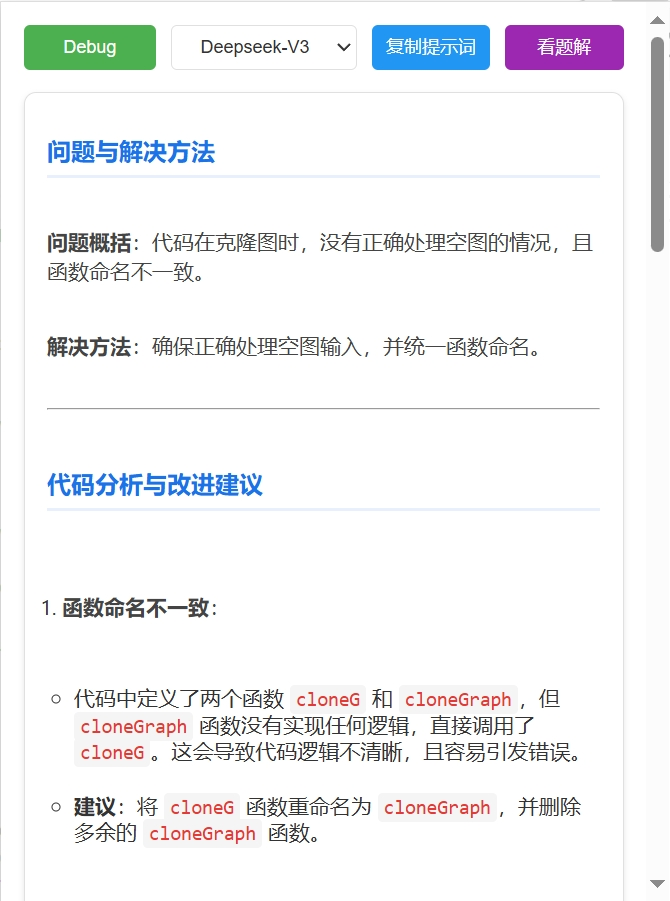
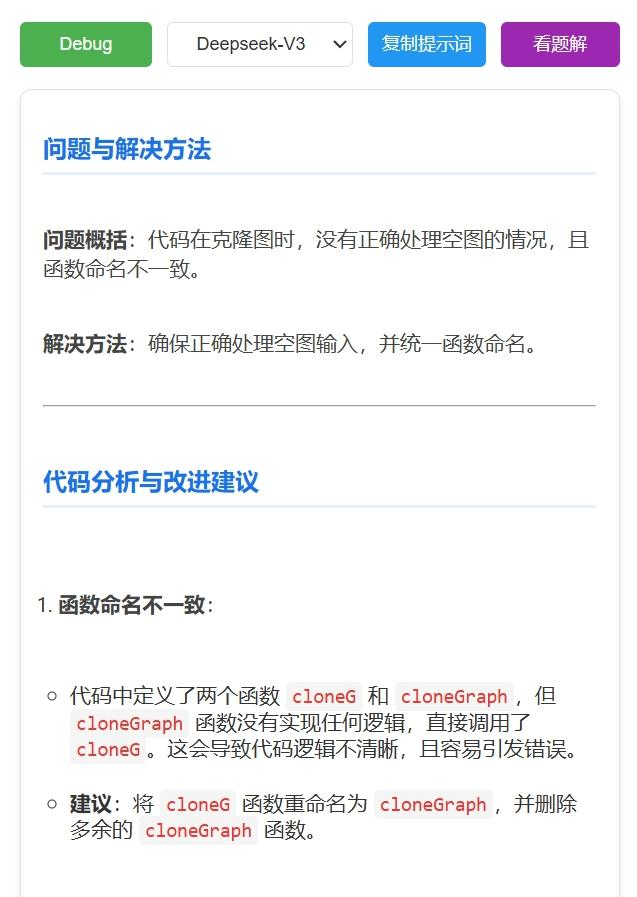
修改图片

diff --git a/README.md b/README.md
@@ -3,8 +3,7 @@
 A Chrome extension that helps you debug LeetCode problems using AI assistance.
 
 一个使用AI辅助调试LeetCode问题的Chrome扩展程序。
-
-![Extension Screenshot](./images/pic1.jpg)
+<img src="./images/pic1.jpg" width="300" alt="Extension Screenshot">
 
 ## 🎯 Usage 使用方法
 
